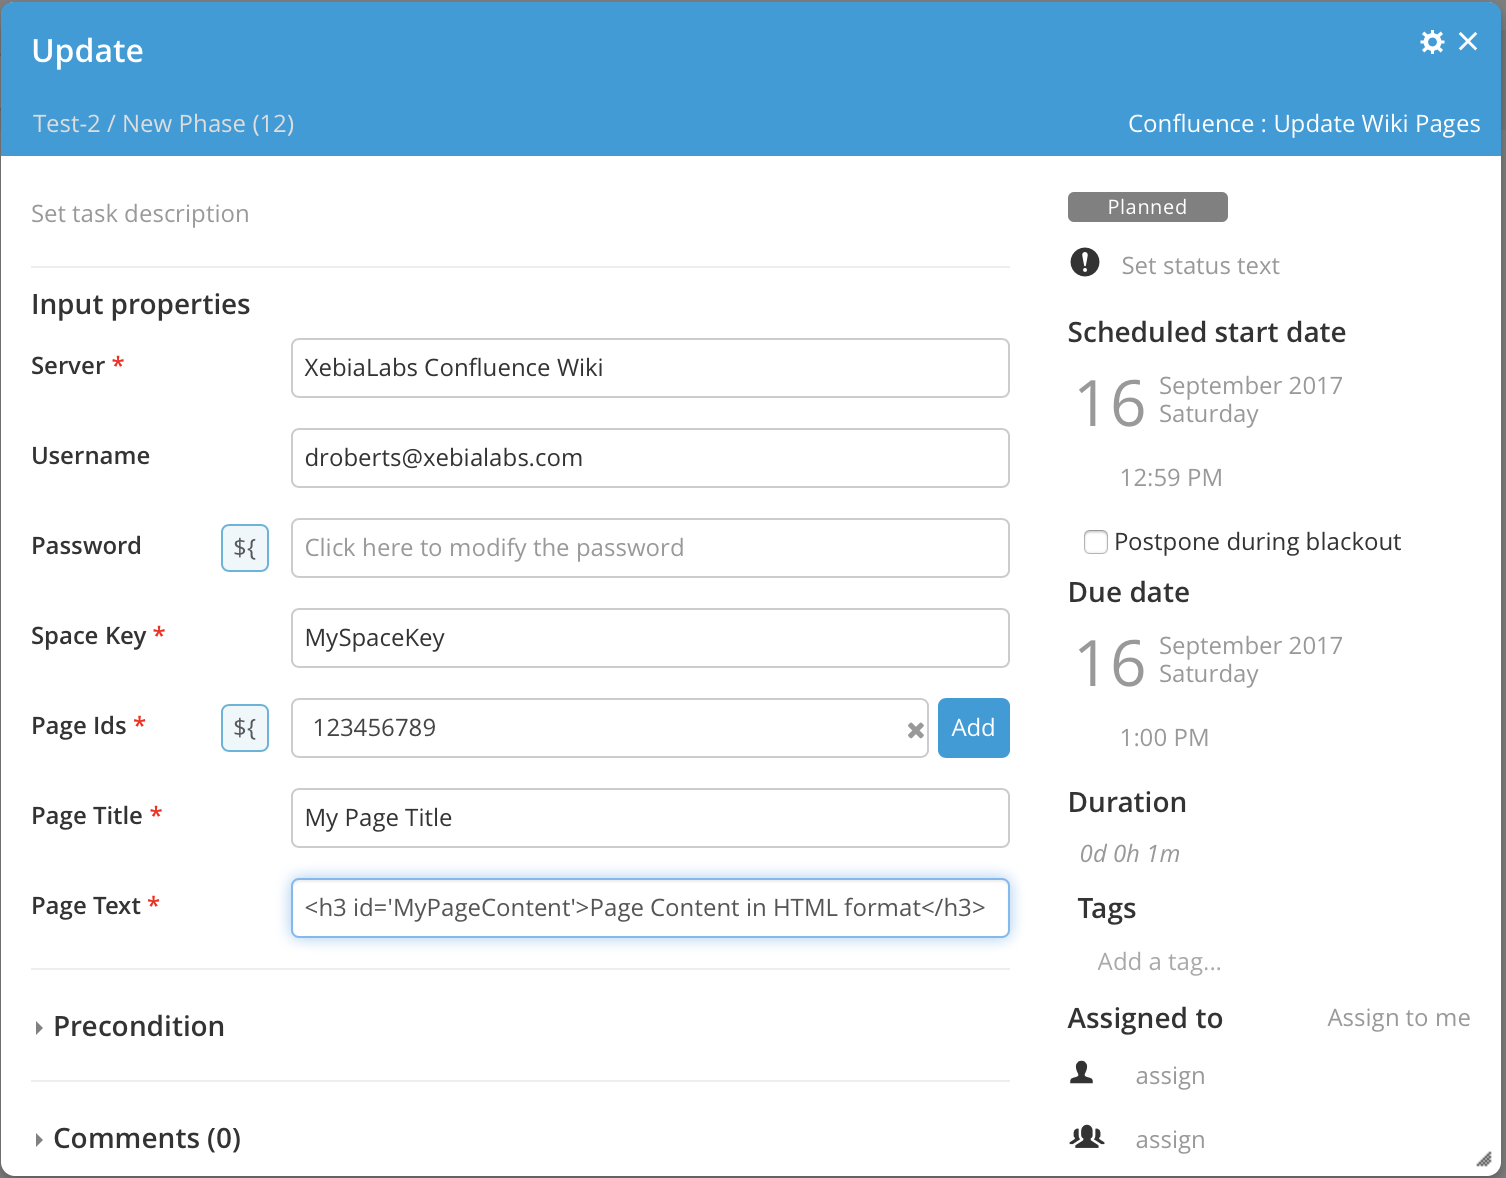
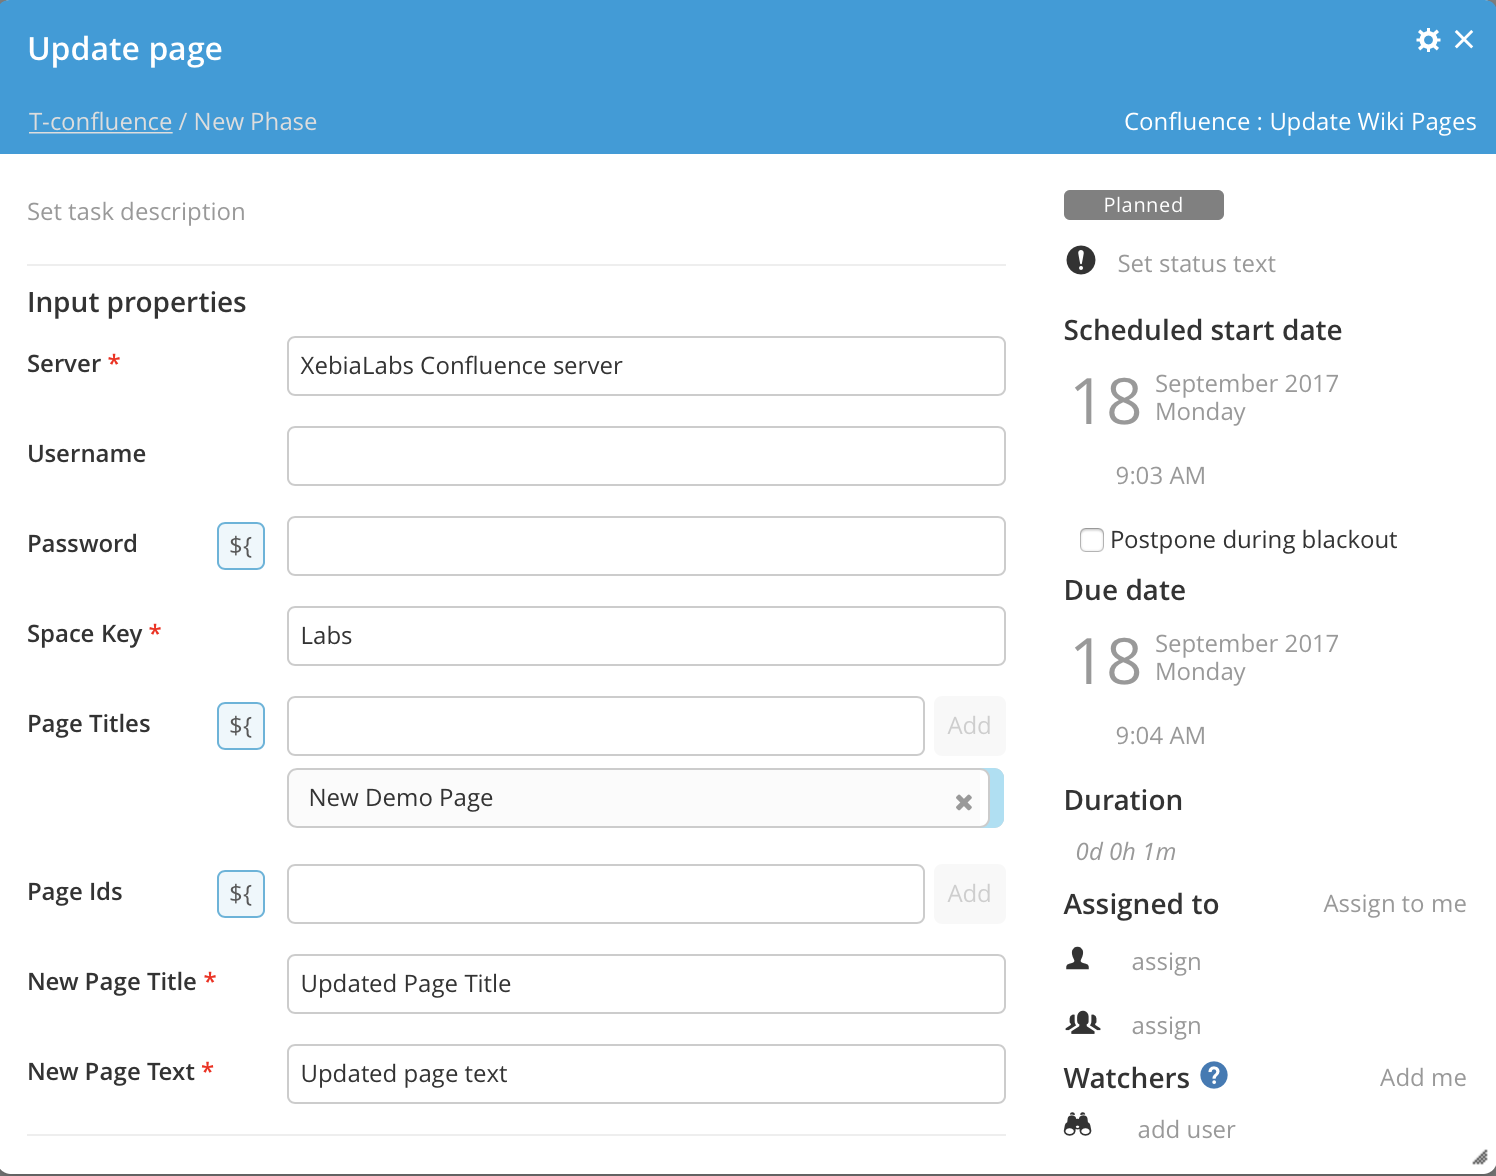
Implement deletePage, clarify property names

diff --git a/src/main/resources/confluence/ConfluenceClient.py b/src/main/resources/confluence/ConfluenceClient.py
@@ -13,7 +13,7 @@ import sys
 import com.xhaus.jyson.JysonCodec as json
 from confluence.HttpRequestPlus import HttpRequestPlus
 
-HTTP_SUCCESS = sets.Set([200])
+HTTP_SUCCESS = sets.Set([200, 204])
 
 class ConfluenceClient(object):
 
@@ -55,6 +55,15 @@ class ConfluenceClient(object):
         self.throw_error(response)
       print "Success.  The page %s has been added.\n" % pageTitle
 
+    def deletePage(self, spaceKey, pageId):
+      print "Executing deletePage() in ConfluenceClient\n"
+      contentType = "application/json"
+      headers = {'Accept' : 'application/json', 'Content-Type' : 'application/json'}
+      deletePageUrl = '/rest/api/content/%s' % pageId
+      response = self.httpRequest.delete(deletePageUrl, contentType=contentType, headers=headers)
+      if response.getStatus() not in HTTP_SUCCESS:
+        self.throw_error(response)
+      print "Success.  Page %s has been deleted.\n" % pageId
 
     def getPage(self, pageId):
       print "Executing getPage() in ConfluenceClient\n"
@@ -66,8 +75,8 @@ class ConfluenceClient(object):
         self.throw_error(response)
       return json.loads(response.response)
 
-    def getPageNumbersByTitle(self, spaceKey, pageTitles):
-      print "Executing getPageNumbersByTitle() in ConfluenceClient\n"
+    def getPageIdsByTitle(self, spaceKey, pageTitles):
+      print "Executing getPageIdsByTitle() in ConfluenceClient\n"
       contentType = "application/json"
       headers = {'Accept' : 'application/json'}
       pageIdList = []

diff --git a/src/main/resources/confluence/addWikiPages.py b/src/main/resources/confluence/addWikiPages.py
@@ -20,10 +20,11 @@ credentials = CredentialsFallback(confluenceServer, username, password).getCrede
 
 confluenceClient = ConfluenceClientUtil.createConfluenceClient(confluenceServer, credentials['username'], credentials['password'])
 
-parentPageIdList = confluenceClient.getPageNumbersByTitle(spaceKey, parentPageTitles)
+parentPageIdList = confluenceClient.getPageIdsByTitle(spaceKey, parentPageTitles)
 
-for parentPageNumber in parentPageNumbers:
-  parentPageIdList.append(parentPageNumber)
+for parentPageId in parentPageIds:
+  parentPageIdList.append(parentPageId)
 
 for parentPageId in parentPageIdList:
-  confluenceClient.addPage(spaceKey, parentPageId, pageTitle, pageText)
+  confluenceClient.addPage(spaceKey, parentPageId, newPageTitle, newPageText)
+

diff --git a/src/main/resources/confluence/updateWikiPages.py b/src/main/resources/confluence/updateWikiPages.py
@@ -20,6 +20,11 @@ credentials = CredentialsFallback(confluenceServer, username, password).getCrede
 
 confluenceClient = ConfluenceClientUtil.createConfluenceClient(confluenceServer, credentials['username'], credentials['password'])
 
+pageIdList = confluenceClient.getPageIdsByTitle(spaceKey, pageTitles)
+
 for pageId in pageIds:
-  confluenceClient.updatePage(spaceKey, pageId, pageTitle, pageText)
+  pageIdList.append(pageId)
+
+for pageId in pageIdList:
+  confluenceClient.updatePage(spaceKey, pageId, newPageTitle, newPageText)
 

diff --git a/src/main/resources/confluence/deleteWikiPages.py b/src/main/resources/confluence/deleteWikiPages.py
@@ -10,7 +10,7 @@
 
 from confluence.ConfluenceClientUtil import ConfluenceClientUtil
 
-print "Executing addCommentToPages.py\n"
+print "Executing deleteWikiPages.py\n"
 
 if confluenceServer is None:
   print "No server provided\n"
@@ -26,5 +26,5 @@ for pageId in pageIds:
   pageIdList.append(pageId)
 
 for pageId in pageIdList:
-  confluenceClient.addComment(pageId, comment)
+  confluenceClient.deletePage(spaceKey, pageId)
 

diff --git a/README.md b/README.md
@@ -22,19 +22,25 @@ The page text should be formatted with HTML tags.
 
 ![screenshot of add-page](images/addpage.png)
 
-#### Task: Update one or more wiki pages ####
-
-The specified pages will be updated with the new body text.  The new text will replace the prior contents of the page.
-
-The page text should be formatted with HTML tags.
-
-![screenshot of add-page](images/updatepage.png)
-
 #### Task: Add a comment to one or more existing wiki pages ####
 
 A comment will be added to all pages matching the page titles and page numbers within the space key.
 
 ![screenshot of add-comment](images/addcomment.png)
+
+#### Task: Delete one or more wiki pages ####
+
+The specified pages will be deleted.
+
+![screenshot of add-page](images/deletepage.png)
+
+#### Task: Update one or more wiki pages ####
+
+The specified pages will be updated with the new page title and new body text.  The prior contents of the page will be replaced.
+
+The page text should be formatted with HTML tags.
+
+![screenshot of add-page](images/updatepage.png)
 
 ### Server configuration ###
 
